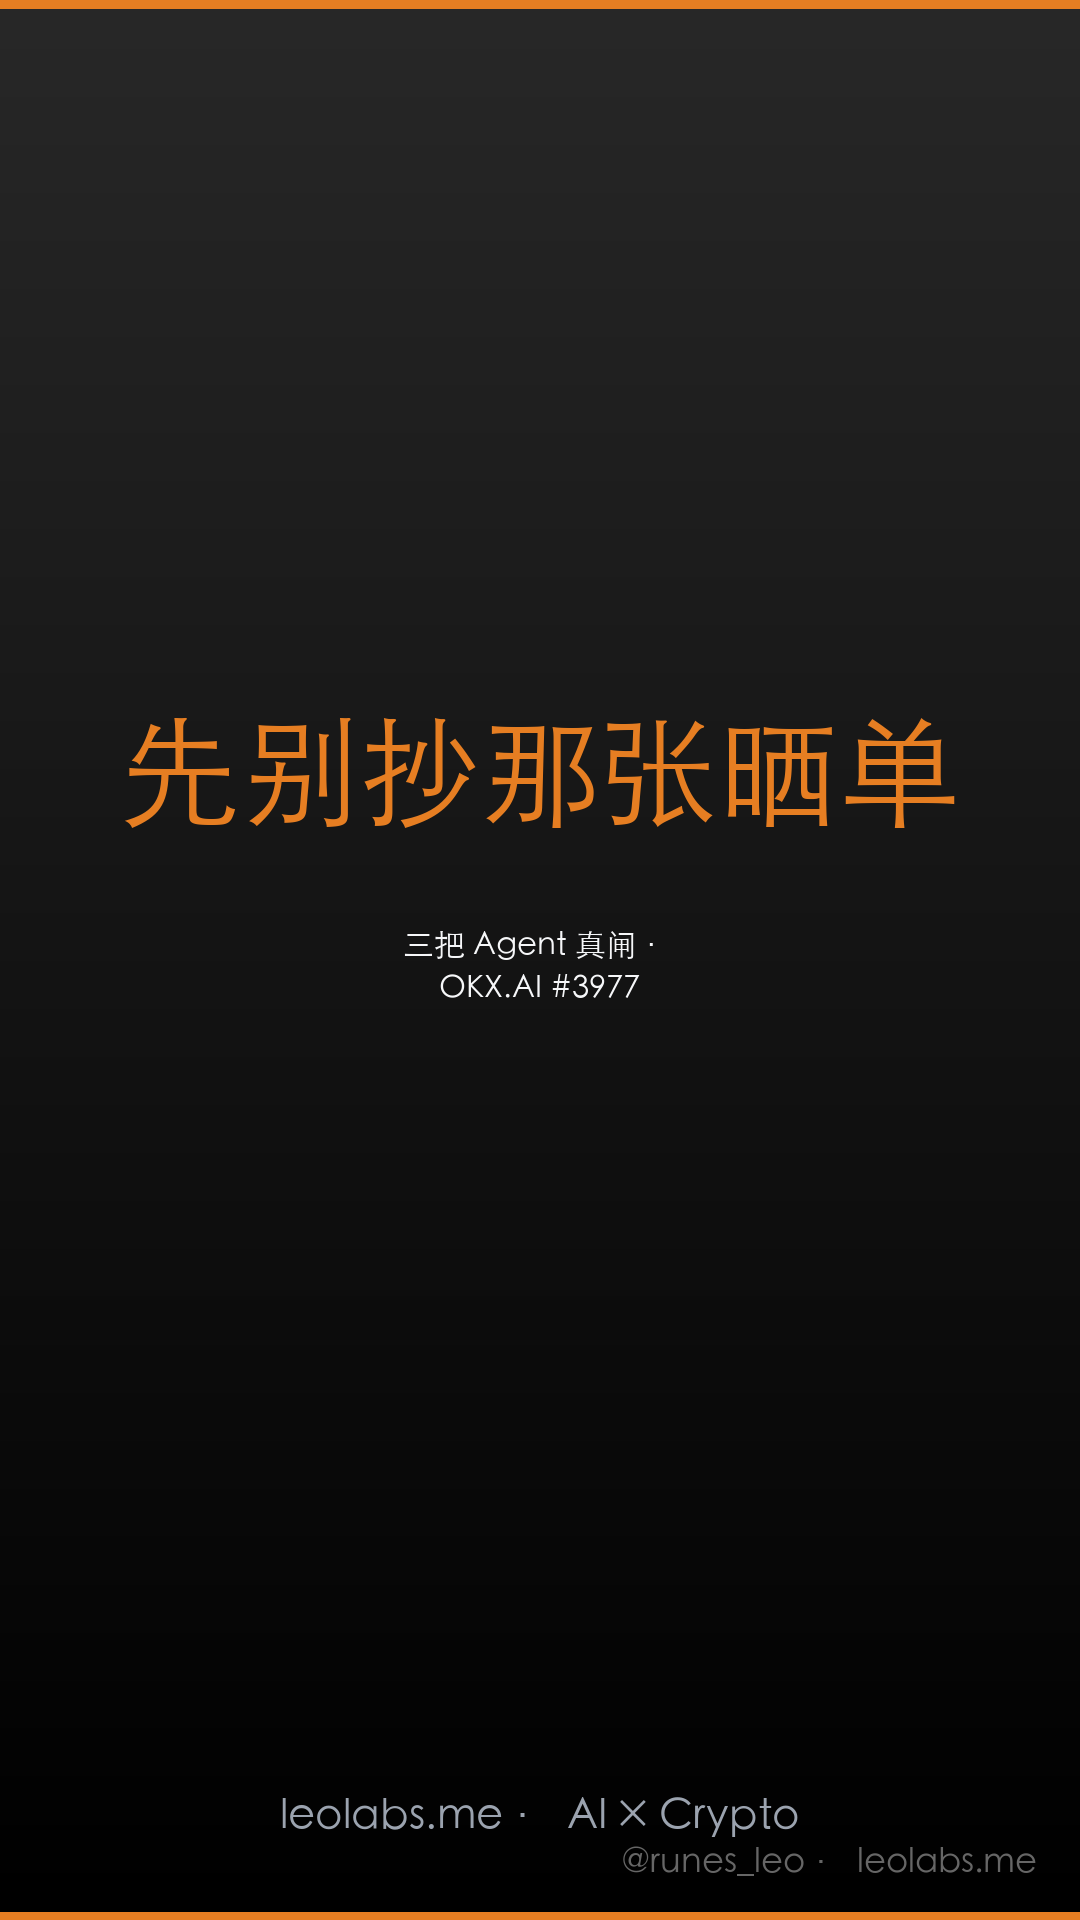
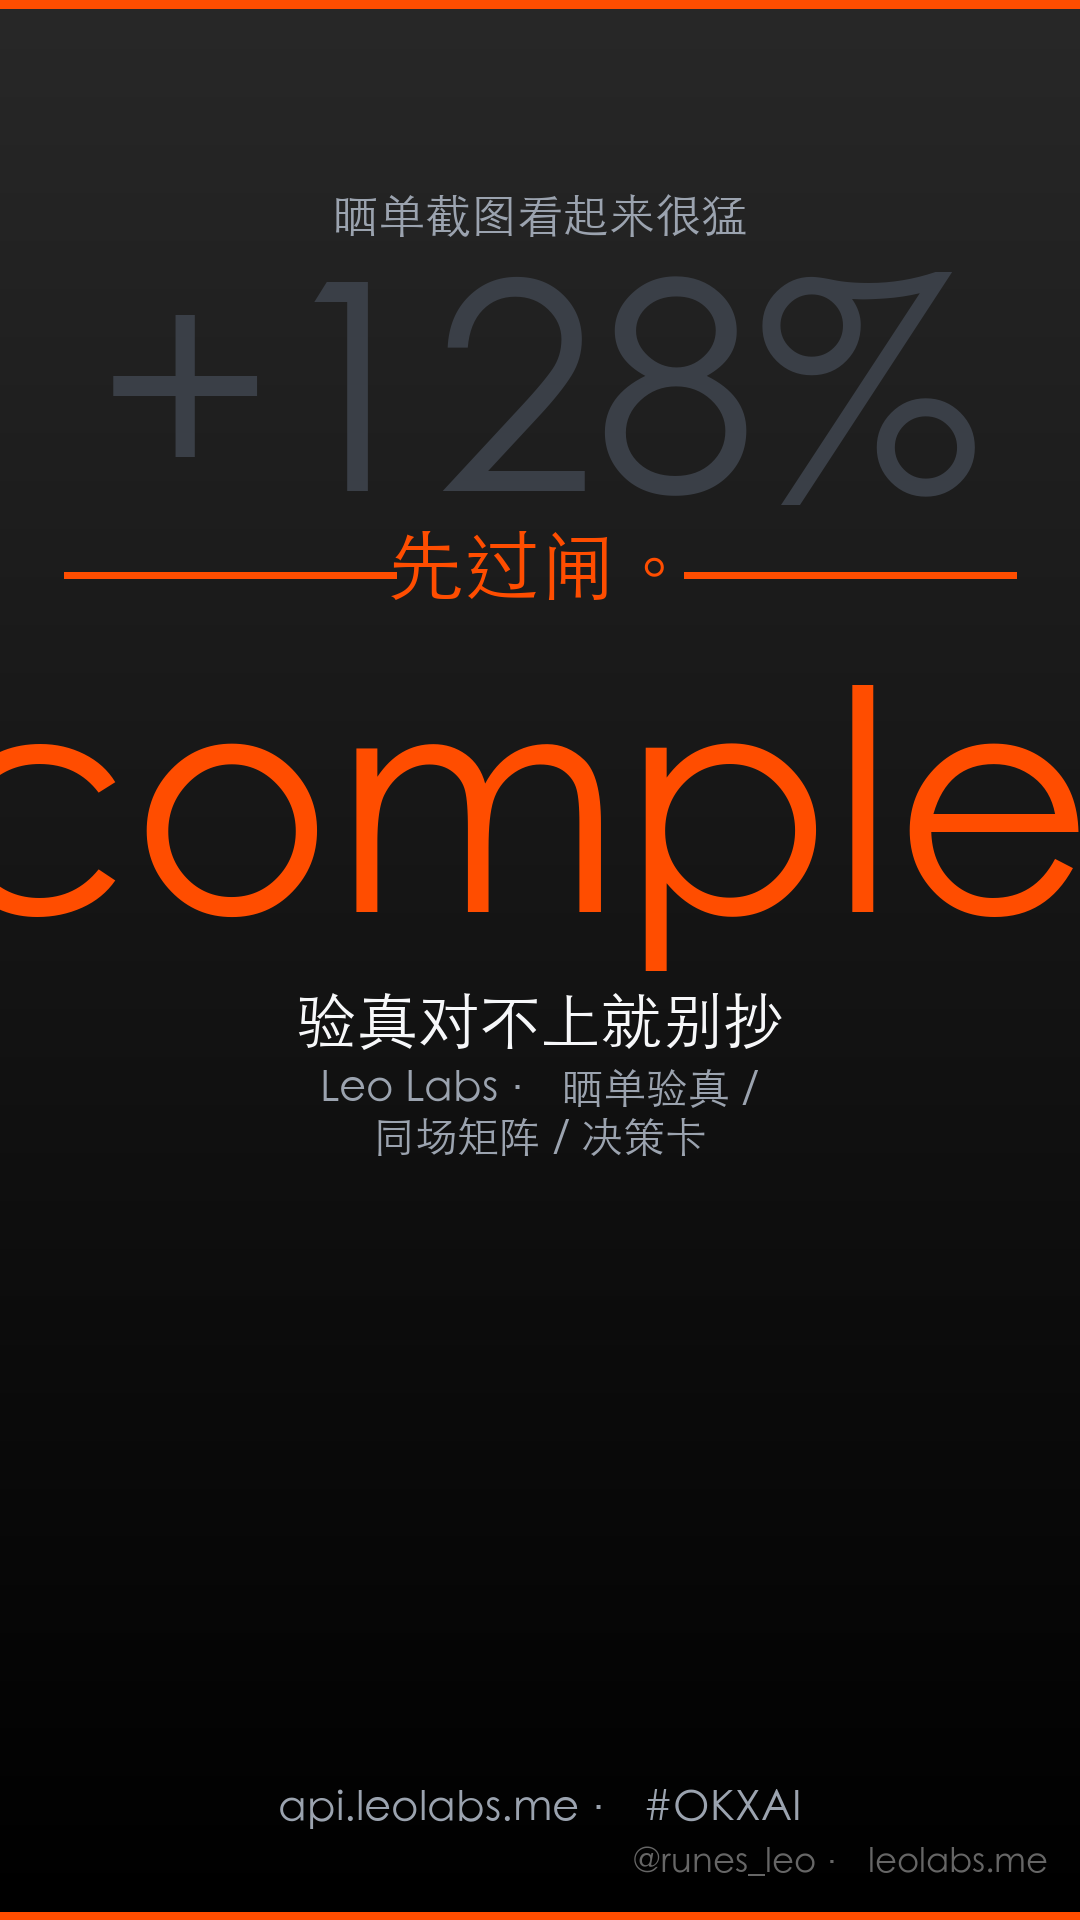
landscape OKXAI tip-knife + edge-tts fallback

diff --git a/scripts/tts.py b/scripts/tts.py
@@ -55,8 +55,49 @@ def fish_tts(text: str, out_path: Path, voice_id: str, api_key: str) -> None:
     out_path.write_bytes(r.content)
 
 
+def edge_tts_fallback(text: str, out_path: Path) -> bool:
+    """Optional edge-tts fallback (better Chinese than macOS say when Fish unset)."""
+    if not shutil.which("edge-tts") or not shutil.which("ffmpeg"):
+        return False
+    voice = os.environ.get("EDGE_TTS_VOICE", "zh-CN-YunyangNeural").strip()
+    rate = os.environ.get("EDGE_TTS_RATE", "+8%").strip()
+    mp3 = out_path.with_suffix(".mp3")
+    try:
+        subprocess.run(
+            [
+                "edge-tts",
+                "--voice", voice,
+                "--rate", rate,
+                "--text", text,
+                "--write-media", str(mp3),
+            ],
+            check=True,
+            capture_output=True,
+            text=True,
+        )
+        subprocess.run(
+            [
+                "ffmpeg", "-y", "-i", str(mp3),
+                "-acodec", "pcm_s16le", "-ar", "44100", "-ac", "1",
+                str(out_path),
+            ],
+            check=True,
+            capture_output=True,
+        )
+        mp3.unlink(missing_ok=True)
+        print(f"  (edge-tts fallback: {voice})")
+        return True
+    except (OSError, subprocess.CalledProcessError) as exc:
+        print(f"  (edge-tts failed: {exc})")
+        mp3.unlink(missing_ok=True)
+        return False
+
+
 def local_fallback(text: str, out_path: Path) -> None:
-    """macOS `say` fallback so pipeline runs without an API key."""
+    """Prefer edge-tts when available; else macOS `say` for keyless dry-runs."""
+    prefer = os.environ.get("TTS_FALLBACK", "edge").strip().lower()
+    if prefer != "say" and edge_tts_fallback(text, out_path):
+        return
     if shutil.which("say"):
         aiff = out_path.with_suffix(".aiff")
         cmd = ["say", "-o", str(aiff)]
@@ -71,9 +112,10 @@ def local_fallback(text: str, out_path: Path) -> None:
             capture_output=True,
         )
         aiff.unlink()
+        print("  (macOS say fallback)")
         return
     raise RuntimeError(
-        "No TTS backend available. Set FISH_AUDIO_API_KEY or install `say`/ffmpeg."
+        "No TTS backend available. Set FISH_AUDIO_API_KEY, install edge-tts, or say/ffmpeg."
     )
 
 
